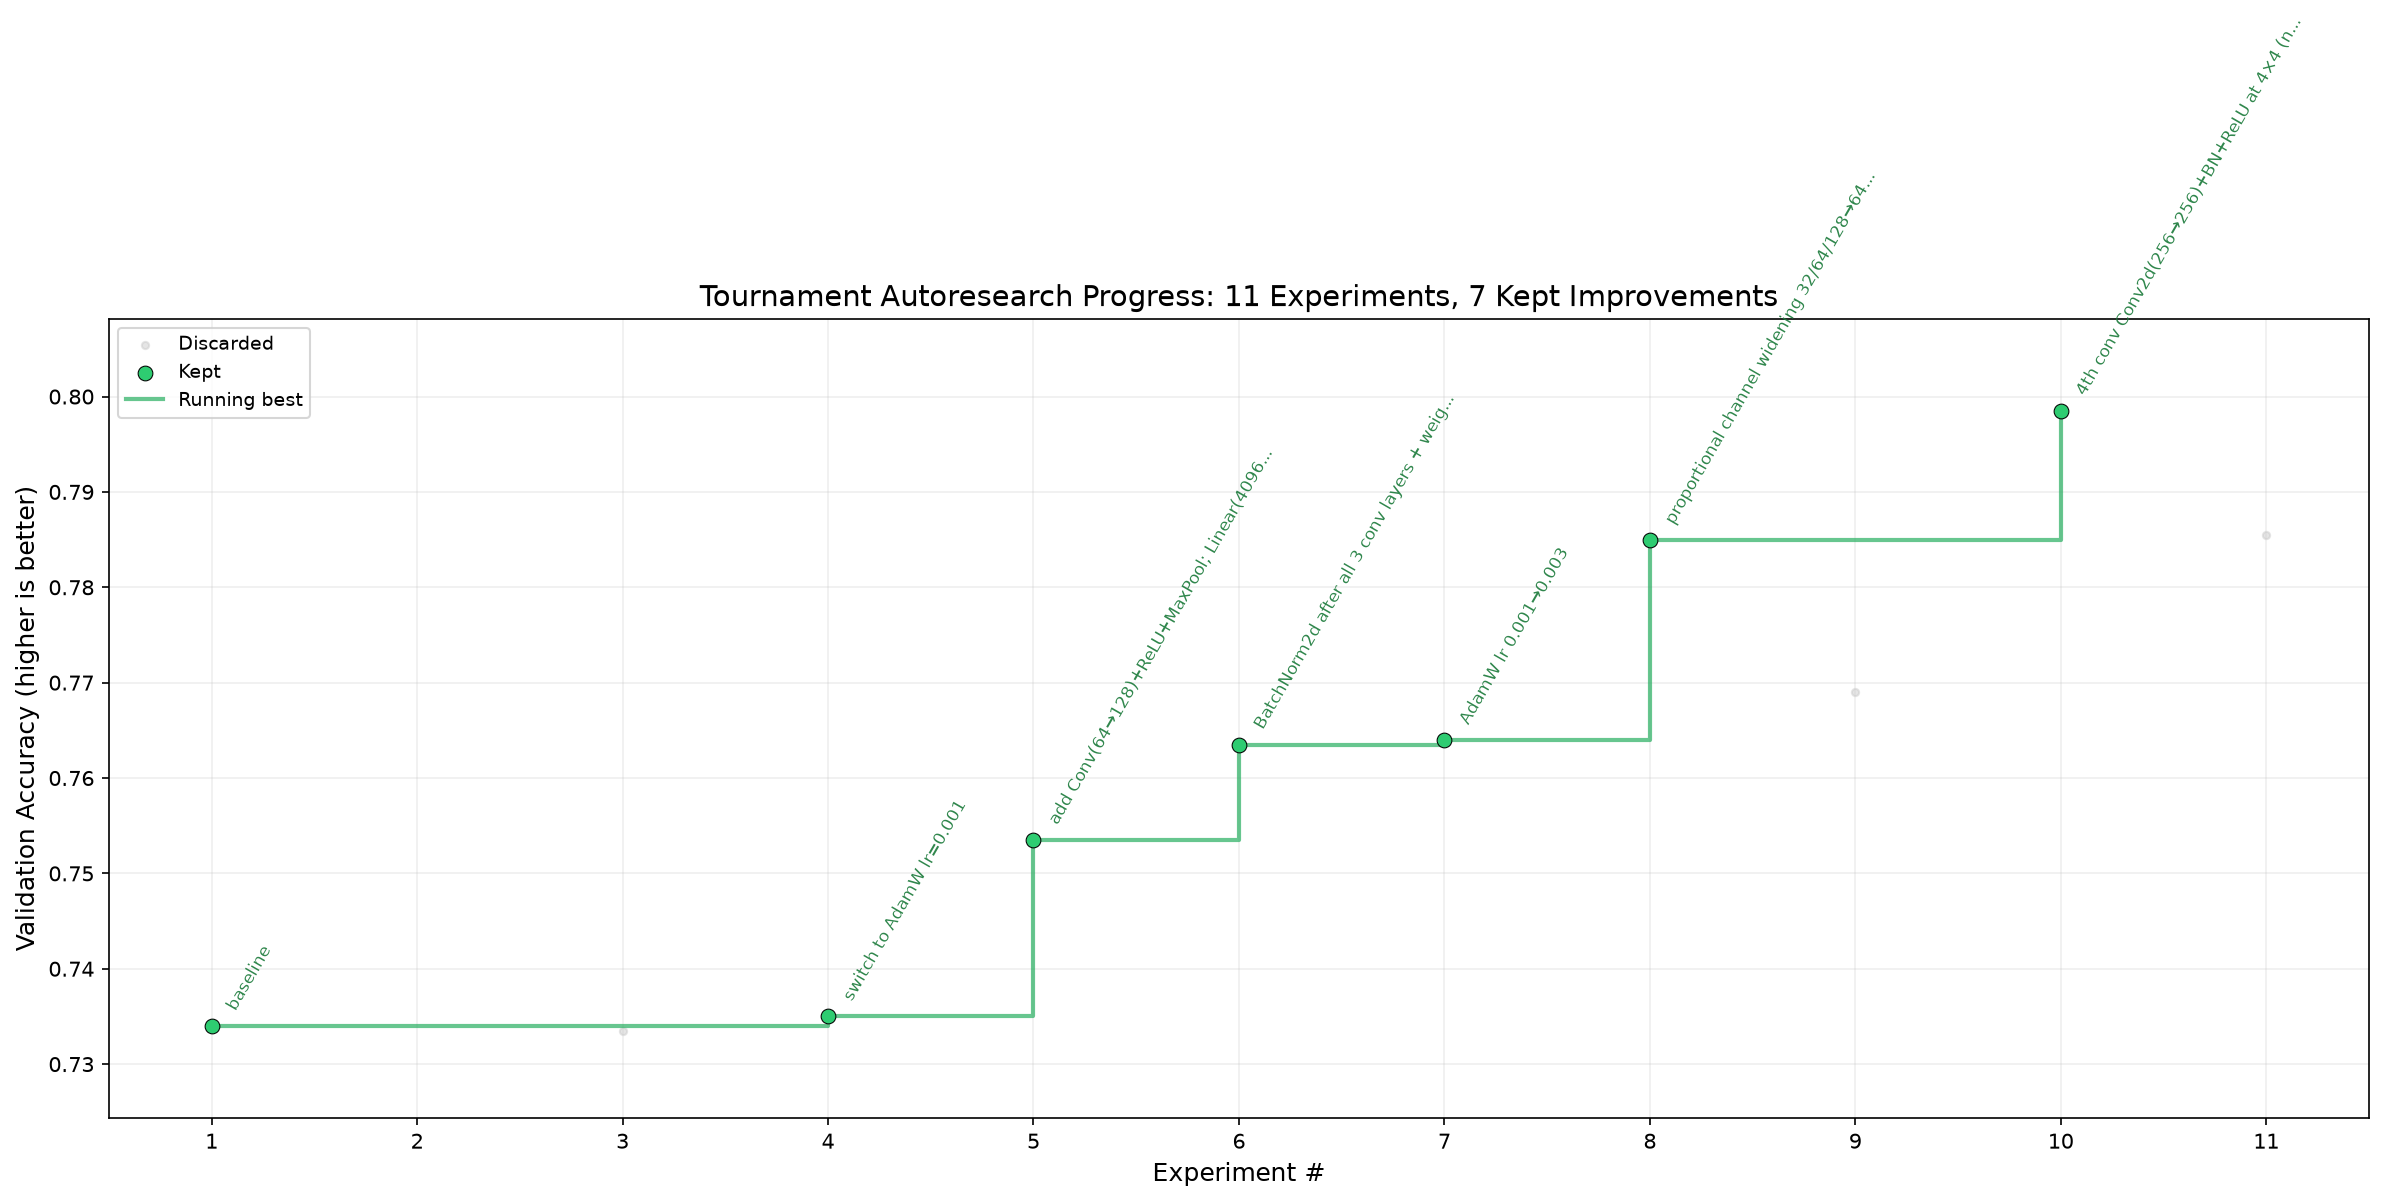
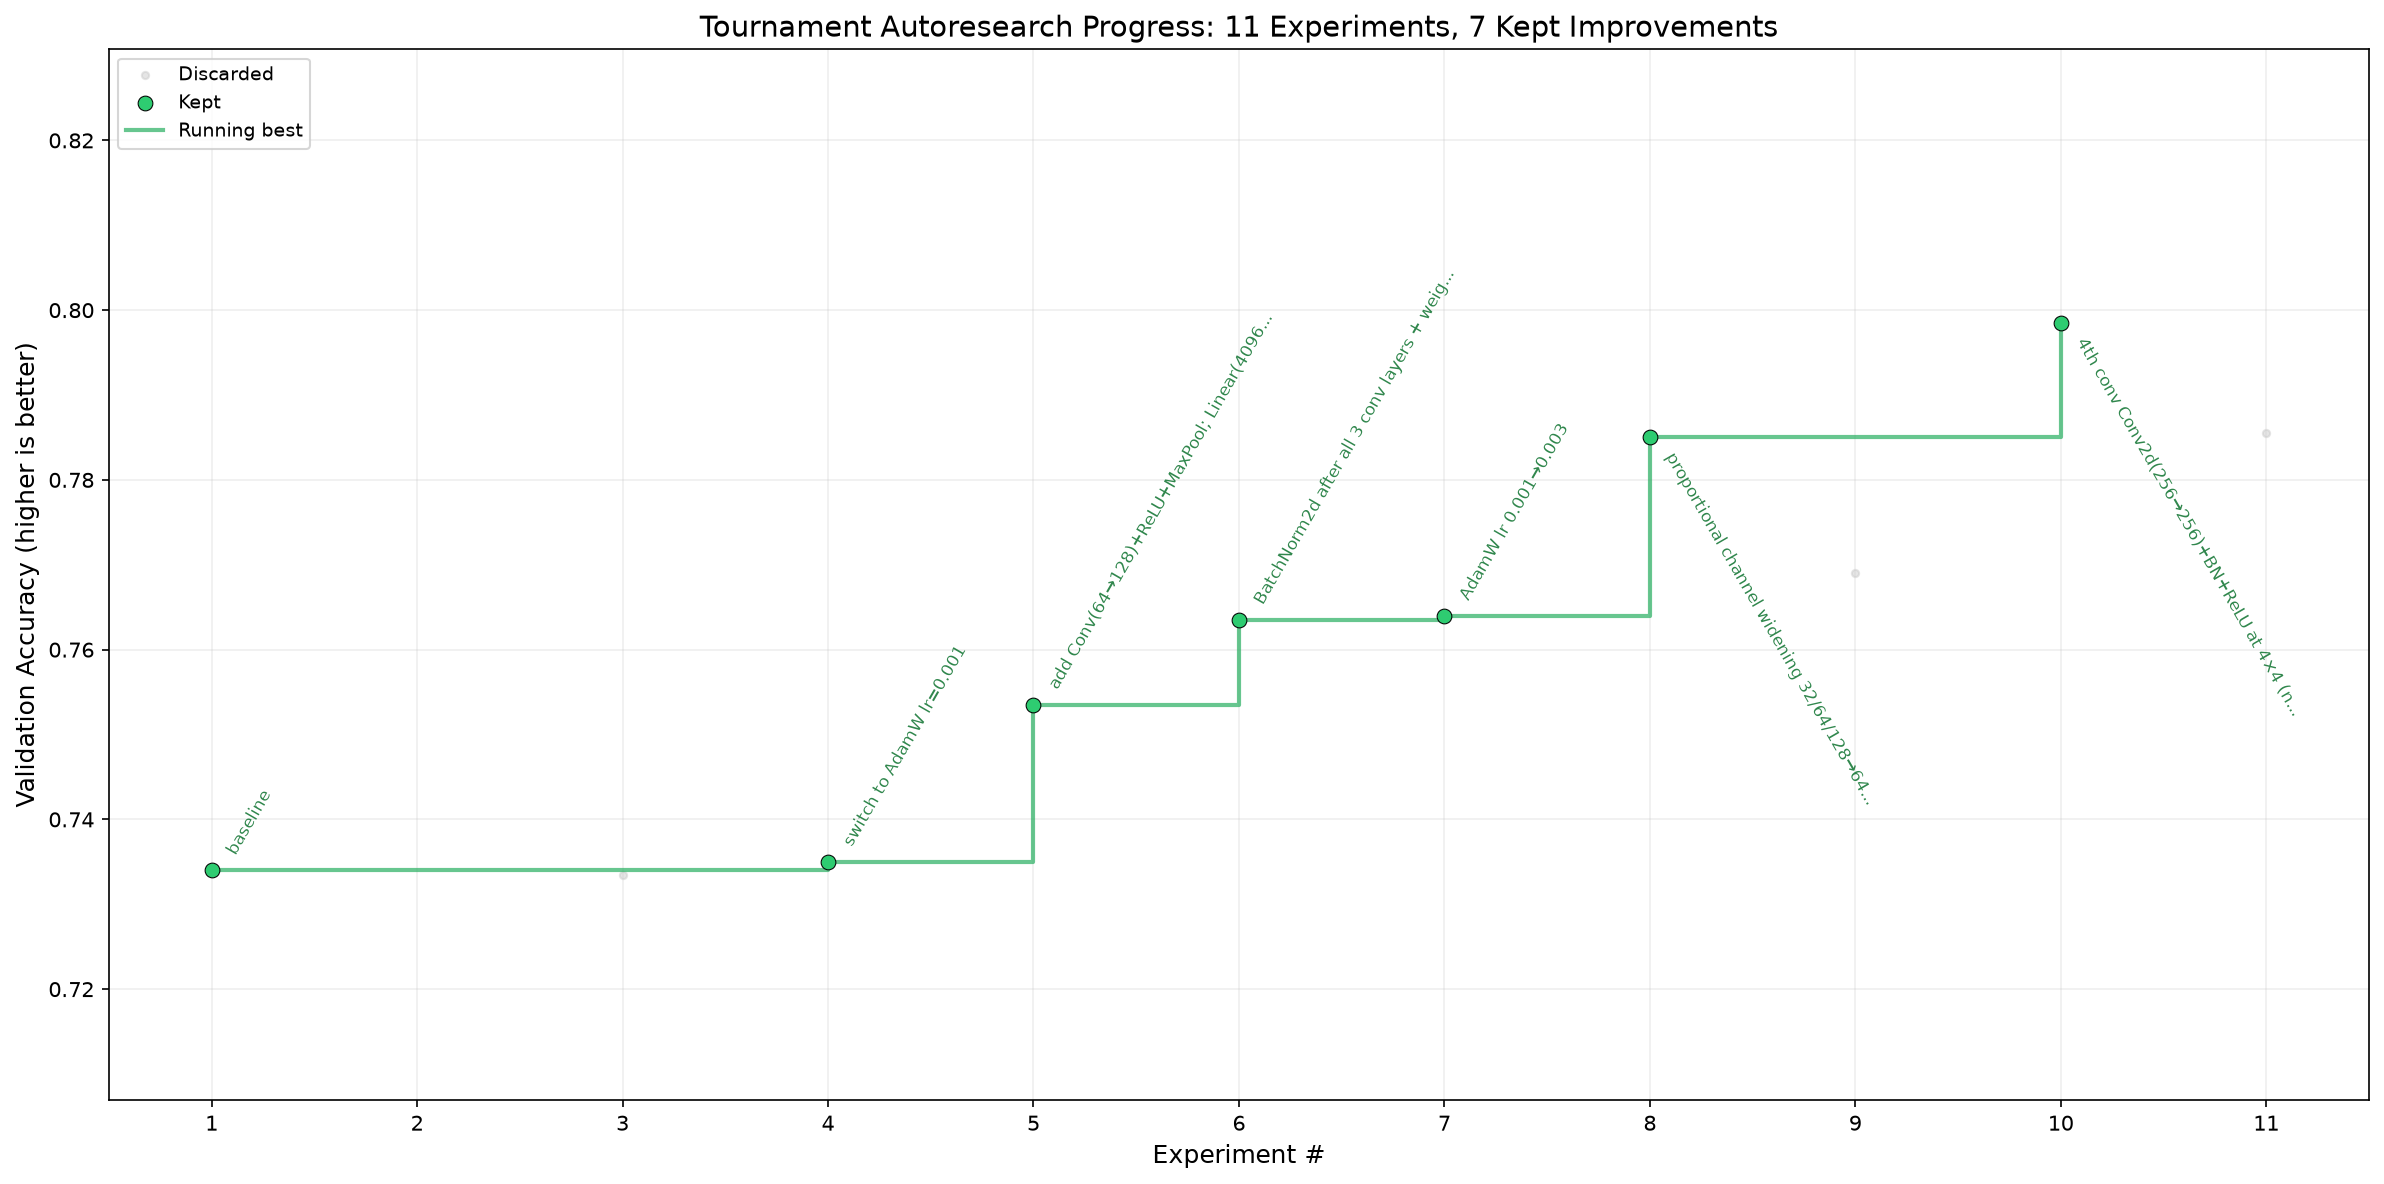
update plot for readme

diff --git a/showcase/plot_progress.py b/showcase/plot_progress.py
@@ -70,14 +70,23 @@ def chart(tsv, ycol, status_col, desccol, title_name, ylabel, out):
     ax.step(kept_x, running_max, where="post", color="#27ae60",
             linewidth=2, alpha=0.7, zorder=3, label="Running best")
 
-    # label each kept experiment with its description
-    for i in kept_all:
+    # label each kept experiment with its description. The last two kept points
+    # sit high on the climb, so their labels read *downward* into the open area
+    # below the frontier instead of spilling off the top edge; the rest go up.
+    labels = []
+    n_pts = len(kept_all)
+    for j, i in enumerate(kept_all):
         d = re.sub(r"^iter\d+-a\d+:\s*", "", desc[i]).strip()
         if len(d) > 45:
             d = d[:42] + "..."
-        ax.annotate(d, (xs[i], ys[i]), textcoords="offset points",
-                    xytext=(6, 6), fontsize=8.0, color="#1a7a3a", alpha=0.9,
-                    rotation=60, ha="left", va="bottom")
+        if j >= n_pts - 2:  # last two: annotate downward
+            labels.append(ax.annotate(d, (xs[i], ys[i]), textcoords="offset points",
+                                      xytext=(6, -6), fontsize=8.0, color="#1a7a3a", alpha=0.9,
+                                      rotation=-60, ha="left", va="top"))
+        else:               # the rest: annotate upward (Karpathy's schema)
+            labels.append(ax.annotate(d, (xs[i], ys[i]), textcoords="offset points",
+                                      xytext=(6, 6), fontsize=8.0, color="#1a7a3a", alpha=0.9,
+                                      rotation=60, ha="left", va="bottom"))
 
     n_total = len(xs)
     n_kept = sum(1 for s in st if s == "KEEP")
@@ -88,10 +97,12 @@ def chart(tsv, ycol, status_col, desccol, title_name, ylabel, out):
     ax.grid(True, alpha=0.2)
     ax.set_xticks(xs)
 
-    # y-axis: from just below baseline to just above best
+    # y-axis: headroom above for the upward labels, room below for the two
+    # downward ones (Karpathy used a symmetric 0.15 margin; the steep rotated
+    # labels need a little more on each side).
     best = max(kept_y)
-    margin = (best - baseline) * 0.15
-    ax.set_ylim(baseline - margin, best + margin)
+    rng = best - baseline
+    ax.set_ylim(baseline - 0.42 * rng, best + 0.50 * rng)
 
     plt.tight_layout()
     dest = os.path.join(ROOT, "assets", out)